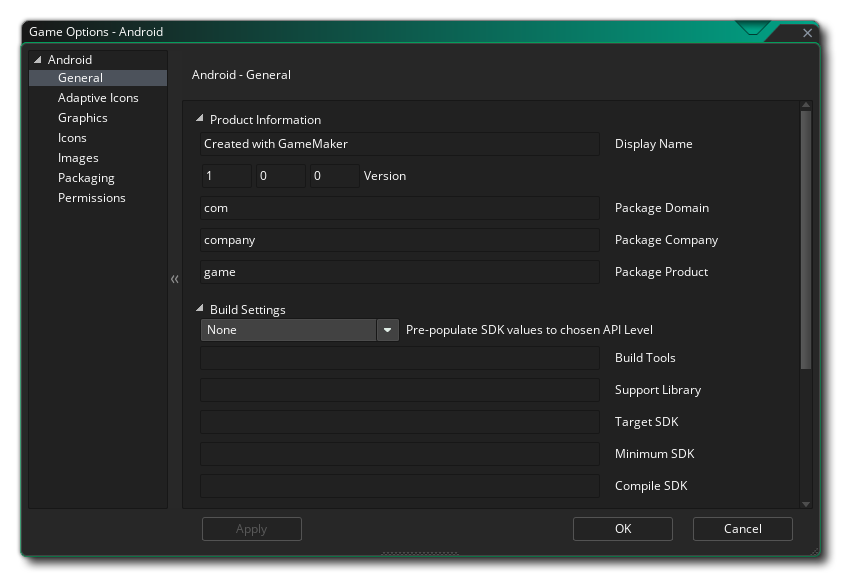
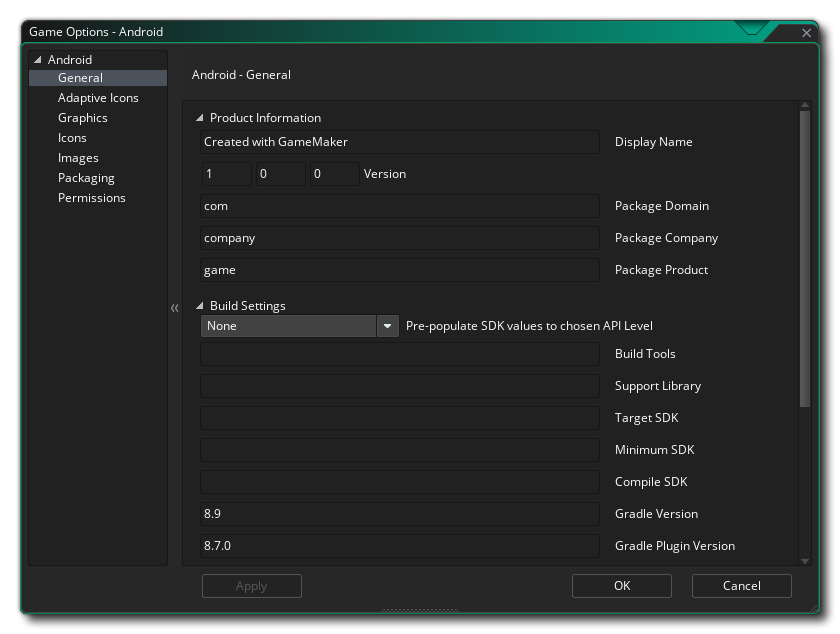
docs(feature): [Android] android:windowLayoutInDisplayCutoutMode does not allow edge to edge display YoYoGames/GameMaker-Bugs#8186
* Updated screenshots on Android Game Options page and added descriptions: Gradle versions, Enable Edge to Edge Display, Display Layout
* Added new display layout event under "Misc. Events"
* Changed minimum Android API level variable to 34
* Removed typo on iOS graphics options screenshot and page

diff --git a/Manual/contents/Settings/Game_Options/Android.htm b/Manual/contents/Settings/Game_Options/Android.htm
@@ -18,13 +18,13 @@
   <p>This section outlines the different options available to you that control how your Android game projects will be compiled. The different sections are:</p>
   <h2 id="general">General</h2>
   <p><img alt="General Android Game Options 1" class="center" src="../../assets/Images/Settings/Android_General1_Options.png" />The first part of the <strong>General </strong>section is dedicated to the <strong>Product Information</strong> and the <strong>Build Settings</strong>. You should fill in the Product information, which includes the projects <strong>Display Name</strong>, its Package information, which consists of a <strong>Domain</strong>, <strong>Company </strong>and <strong>Product</strong>. The package information can only be made up of letters from A-Z and numbers 0-9, with no symbols or other special characters at all, nor should it have uppercase characters. These details will then be used to generate a Package ID with the format &quot;<span class="inline">com.company.myappname</span>&quot;.</p>
-  <p>You then need to set the <strong>Build Tools</strong> as well as the <strong>Target</strong>, <strong>Minimum </strong>and <strong>Compile SDK</strong> versions.</p>
+  <p>You then need to set the <strong>Build Tools</strong> as well as the <strong>Target</strong>, <strong>Minimum </strong>and <strong>Compile SDK</strong> versions. You can also change the <strong>Gradle Version</strong> and <strong>Gradle Plugin Version</strong> here if needed.</p>
   <p class="note"><span data-conref="../../assets/snippets/Tag_note.hts"> </span> There is also an option for the &quot;<strong>Support Library</strong>&quot; version to use. From <span data-keyref="GameMaker Name">GameMaker</span> v2.2.4 and above, this is no longer required and any values used here will be ignored. The setting is maintained for use with legacy projects that require an earlier runtime than 2.2.4.</p>
   <p>The Build Tools (and Support Library if required) are used when <span data-keyref="GameMaker Name">GameMaker</span> builds your game for the Android target and should be set to appropriate values based on the tools you have installed using Android Studio.</p>
-  <p class="note"><span data-conref="../../assets/snippets/Tag_note.hts"> </span> Refer to <a href="https://help.gamemaker.io/hc/en-us/articles/227860547-GameMaker-Required-SDKs#android">Required SDKs</a> for the required SDK levels. <span data-keyref="GameMaker Name">GameMaker</span> does not support SDK versions below <span data-keyref="Minimum_Supported_Android_API_Level">21</span>.</p>
+  <p class="note"><span data-conref="../../assets/snippets/Tag_note.hts"> </span> Refer to <a href="https://help.gamemaker.io/hc/en-us/articles/227860547-GameMaker-Required-SDKs#android">Required SDKs</a> for the required SDK levels. <span data-keyref="GameMaker Name">GameMaker</span> does not support SDK versions below <span data-keyref="Minimum_Supported_Android_API_Level">34</span>.</p>
   <ul class="colour">
     <li>The <strong>Target SDK</strong> indicates that you have tested your app on (up to and including) the version you specify here. This is simply to give the Android OS an idea of how it should handle your app in terms of OS features. For all practical purposes, most apps are going to want to set Target SDK to the latest released version of the API (as used by the Compile SDK setting). This will ensure your app looks as good as possible on the most recent Android devices.</li>
-    <li>The <strong>Minimum SDK</strong> version is the minimum API level that will run your project. Default is <span data-keyref="Minimum_Supported_Android_API_Level">21</span>.</li>
+    <li>The <strong>Minimum SDK</strong> version is the minimum API level that will run your project. Default is <span data-keyref="Minimum_Supported_Android_API_Level">34</span>.</li>
     <li>The <strong>Compile SDK</strong> version is the version of the API that the project is compiled against. This means you can use Android API features included in that version of the API. If you try and use API 24 features - for example - but set Compile SDK 21, then you will get a compilation error. However, if you set the Compile SDK to 28 then you can still run the app on an API 26 device (as well as all other previous versions too).</li>
   </ul>
   <p>You can select from one of the predefined target settings by clicking on the <strong>Pre-populate SDK</strong> values to chosen API level button, which will open a list of different APIs to choose from. Selecting any one of them will populate all the SDK files with appropriate values which you can then use or edit as required.</p>
@@ -63,14 +63,16 @@
   </ul>
   <p>You can supply each forground and background image individually, or you can choose to Generate Icons From File. This means that <span data-keyref="GameMaker Name">GameMaker</span> will generate the required icon images from a base (XXXHDPI) file. You need to supply one image each for the foreground and background and then click the button labeled Generate, and the Icons will be created for you. Images should all be in <span class="inline">*.png</span> format.</p>
   <p>It&#39;s important to understand that your adaptive icons may be masked on any given device and so you also have the option to see how they&#39;ll look along with these masks from the <strong>Preview Adaptive Icons</strong> menu:</p>
-  <p><img alt="Android Adaptive Mask Preview" class="center" src="../../assets/Images/Settings/Android_AdaptiveIcons_Masks.gif" />Note that this is simply a preview of how the icon <em>could </em>look with the selected mask, and the setting will not affect how the icons are exported and displayed, as that is up to the device and OS the game will be run on. Also note that these icons are <strong>not</strong> created for you as part of the image generation done when using the <a href="../../IDE_Tools/Project_Image_Generator.htm">Project Image Generator</a> tool.</p>
+  <p><img alt="Android Adaptive Mask Preview" class="center" src="../../assets/Images/Settings/Android_AdaptiveIcons_Masks.gif" />Note that this is simply a preview of how the icon <em>could </em>look with the selected mask, and the setting will not affect how the icons are exported and displayed, as that is up to the device and OS the game will be run on. Also note that these icons are <strong>not</strong> created for you as part of the image generation done when using the <a data-xref="{title}" href="../../IDE_Tools/Project_Image_Generator.htm">Project Image Generator</a> tool.</p>
   <p> </p>
   <h2 id="graphics">Graphics</h2>
-  <p><img alt="Android Graphics Options" class="center" src="../../assets/Images/Settings/Android_Graphics_Options.png" />Here you can change the following details related to how your game will be displayed, with the following options are available:</p>
+  <p><img alt="Android Graphics Options" class="center" src="../../assets/Images/Settings/Android_Graphics_Options.png" />Here you can change the following details related to how your game will be displayed. The following options are available:</p>
   <ul class="colour">
     <li><strong>Interpolate colours between pixels</strong>: Turns on <a class="glossterm" data-glossterm="linear interpolation">linear interpolation</a>, which basically &quot;smooths&quot; pixels. For crisp pixel graphics, it should be off, but if you have nice alpha blends and smoothed edged graphics it is better left on. This is on by default.</li>
-    <li><strong>Screen Colour Depth</strong>: This can be used to set the colour depth for rendering to either 16bit or 24bit. This will affect the compatibility with some older devices if it is set to 24bit, and will also increase the <em>ashmem </em>that is needed (this is the shared memory on AmazonFire devices).</li>
-    <li><strong>Device Support</strong>: This option will set whether to support only devices that have a dedicated GPU, or all devices. Basically, if your game has any advanced drawing functions like alpha blending, additive blending, surfaces, etc... you should limit it to those devices that have a GPU otherwise you run the risk of getting negative comments and poor rating for your game due to graphical errors or crashes on older devices.</li>
+    <li><strong>Enable Edge to Edge Display</strong>: This option enables edge-to-edge display of content, in which the game <span>window spans the entire width and height of the display by drawing behind the system bars</span>. See the Android developer documentation on <a href="https://developer.android.com/develop/ui/views/layout/edge-to-edge">displaying content edge-to-edge</a>.</li>
+    <li><strong>Display Layout</strong>: This option determines how cutout areas are handled. See the Android developer documentation on <a href="http://developer.android.com/develop/ui/views/layout/display-cutout">display cutouts</a>.</li>
+    <li><strong>Screen Colour Depth</strong>: This can be used to set the colour depth for rendering to either 16bit or 24bit. This will affect the compatibility with some older devices if it is set to 24bit, and will also increase the <em>ashmem </em>that is needed (this is the shared memory on Amazon Fire devices).</li>
+    <li><strong>Device Support</strong>: This option will set whether to support only devices that have a dedicated GPU, or all devices. Basically, if your game has any advanced drawing functions like alpha blending, additive blending, surfaces, etc., you should limit it to those devices that have a GPU otherwise you run the risk of getting negative comments and poor rating for your game due to graphical errors or crashes on older devices.</li>
     <li><strong>Scaling</strong>: Here you can select to scale the draw canvas maintaining the aspect ratio within the device screen - adding &quot;padding&quot; around the edges to fit the screen - or you can select to have the draw canvas stretched to fit the device screen.</li>
   </ul>
   <p>Finally there is the option to set the size of the <a class="glossterm" data-glossterm="texture page" href="macOS.htm#">texture page</a>. The default (and most compatible) size is 2048x2048, but you can choose from anywhere between 256x256 up to 8192x8192. There is also a button marked <strong>Preview </strong>which will generate the texture pages for this platform and then open a window so that you can see how they look. This can be very useful if you wish to see how the texture pages are structured and to prevent having texture pages larger (or smaller) than necessary. For more information on texture pages, please see <a data-xref="{title}" href="../Texture_Information/Texture_Pages.htm">Texture Pages</a>.</p>
@@ -128,7 +130,7 @@
   <div class="footer">
     <div class="buttons">
       <div class="clear">
-        <div style="float:left">Back: <a href="../Game_Options.htm">Game Options</a></div>
+        <div style="float:left">Back: <a data-xref="{title}" href="../Game_Options.htm">Game Options</a></div>
         <div style="float:right">Next: <a href="iOS.htm">iOS</a></div>
       </div>
     </div>

diff --git a/Manual/contents/The_Asset_Editors/Object_Properties/Async_Events/System.htm b/Manual/contents/The_Asset_Editors/Object_Properties/Async_Events/System.htm
@@ -18,60 +18,86 @@
   <p><img alt="System Event" class="center" src="../../../assets/Images/Asset_Editors/Async_System.png" />This event can only be triggered by a <a class="glossterm" data-glossterm="callback" href="#">callback</a> from a system level event (such as the detection of a gamepad or the automatic signing in to Xbox Live) and it will return a <a href="../../../GameMaker_Language/GML_Reference/Data_Structures/DS_Maps/DS_Maps.htm">DS Map</a> stored in the variable <span class="inline2"><a data-xref="{title}" href="../../../GameMaker_Language/GML_Overview/Variables/Builtin_Global_Variables/async_load.htm">async_load</a></span>, containing different key/value pairs depending on the system level event that triggered the callback. These events are:</p>
   <h2>Game Pads</h2>
   <p>When this event is triggered for a gamepad being connected or disconnected it will return one of the following key/value pairs in the <span class="inline">async_load</span> map:</p>
-  <ul class="dropspotlist">
-    <li class="dropspot">&quot;<span class="inline">event_type</span>&quot; - the type of system event received, which will be one of the following strings:<br />
+  <ul class="colour">
+    <li>&quot;<span class="inline">event_type</span>&quot; - the type of system event received, which will be one of the following strings:
       <ul>
         <li><span>&quot;<span class="inline">gamepad discovered</span>&quot; - happens when the system reports a new gamepad has been connected</span></li>
         <li><span>&quot;<span class="inline">gamepad lost</span>&quot; - happens when the system has lost connection to a gamepad</span></li>
       </ul>
     </li>
-    <li class="dropspot">&quot;<span class="inline">pad_index</span>&quot; - the index of the pad that has been added or removed</li>
+    <li>&quot;<span class="inline">pad_index</span>&quot; - the index of the pad that has been added or removed</li>
   </ul>
   <p>This event now permits you to move all your gamepad checking logic from the Step Event or an Alarm event into the System Event and only run it when it&#39;s actually required.</p>
   <p class="note"><b><span data-conref="../../../assets/snippets/Tag_important.hts"> </span> </b>This event will NOT be triggered unless you have at least one <a href="../../../GameMaker_Language/GML_Reference/Game_Input/GamePad_Input/Gamepad_Input.htm"><span class="inline">gamepad_*</span></a> function or <a href="../../../Drag_And_Drop/Drag_And_Drop_Reference/Gamepad/Gamepad_Actions.htm">GML Visual action</a> in your game code. The runner will only initialise the gamepad sub-system when the functions are used in the project, so if they aren&#39;t present, adding/removing gamepads will not trigger the System Event.</p>
   <h2>Virtual Keyboards</h2>
   <p>When this event is triggered for a virtual keyboard being opened or closed it will return the following key/value pairs in the <span class="inline2"><a data-xref="{title}" href="../../../GameMaker_Language/GML_Overview/Variables/Builtin_Global_Variables/async_load.htm">async_load</a></span> map:</p>
-  <ul class="dropspotlist">
-    <li class="dropspot">&quot;<span class="inline">event_type</span>&quot; - the type of system event received, which will be &quot;<span class="inline">virtual keyboard status</span>&quot; for virtual keyboards.</li>
-    <li class="dropspot">&quot;<span class="inline">screen_height</span>&quot; - the height of the virtual keyboard (in pixels). This will be 0 if the keyboard is invisible.</li>
-    <li class="dropspot">&quot;<span class="inline">keyboard_status</span>&quot; - the current status of the keyboard, returned as one of the following strings:
+  <ul class="colour">
+    <li>&quot;<span class="inline">event_type</span>&quot; - the type of system event received, which will be &quot;<span class="inline">virtual keyboard status</span>&quot; for virtual keyboards.</li>
+    <li>&quot;<span class="inline">screen_height</span>&quot; - the height of the virtual keyboard (in pixels). This will be 0 if the keyboard is invisible.</li>
+    <li>&quot;<span class="inline">keyboard_status</span>&quot; - the current status of the keyboard, returned as one of the following strings:
       <ul>
-        <li>&quot;hiding&quot;</li>
-        <li>&quot;hidden&quot;</li>
-        <li>&quot;showing&quot;</li>
-        <li>&quot;visible&quot;</li>
+        <li><span class="inline">&quot;hiding&quot;</span></li>
+        <li><span class="inline">&quot;hidden&quot;</span></li>
+        <li><span class="inline">&quot;showing&quot;</span></li>
+        <li><span class="inline">&quot;visible&quot;</span></li>
       </ul>
     </li>
   </ul>
   <p>See <a data-xref="{title}" href="../../../GameMaker_Language/GML_Reference/Game_Input/Virtual_Keys_And_Keyboards/Virtual_Keys_And_Keyboards.htm">Virtual Keys And Virtual Keyboards</a> for more information on the virtual keyboard.</p>
   <h2>Audio System Status</h2>
   <p>This event type is specifically for use when working with the HTML5 target, as it will be triggered every time the Web Audio context status changes. This means that if you have, for example, a piece of looping background music, then you can pause it or stop and restart it, based on this event triggering. This can be checked by looking for the following key/value pair in the <span class="inline2"><a data-xref="{title}" href="../../../GameMaker_Language/GML_Overview/Variables/Builtin_Global_Variables/async_load.htm">async_load</a></span> map:</p>
-  <ul class="dropspotlist">
-    <li class="dropspot">&quot;<span class="inline">event_type</span>&quot; - the type of system event received, which will be the string &quot;<span class="inline">audio_system_status</span>&quot; if the audio system has initialised or the context has changed.</li>
+  <ul class="colour">
+    <li>&quot;<span class="inline">event_type</span>&quot; - the type of system event received, which will be the string &quot;<span class="inline">audio_system_status</span>&quot; if the audio system has initialised or the context has changed.</li>
   </ul>
   <p>If this event type is triggered, then there will be an additional key in the <span class="inline2"><a data-xref="{title}" href="../../../GameMaker_Language/GML_Overview/Variables/Builtin_Global_Variables/async_load.htm">async_load</a></span> map:</p>
-  <ul class="dropspotlist">
-    <li class="dropspot">&quot;<span class="inline">status</span>&quot; - The status of the audio system, which will be one of the following two strings</li>
-    <li class="dropspot">&quot;<span class="inline">available</span>&quot; - The audio system is initialised and available to play sounds</li>
-    <li class="dropspot">&quot;<span class="inline">unavailable</span>&quot; - The audio system is not initialised, or the context is not currently running, and so can&#39;t play sounds (all sound playing functions will return <span class="inline2">-1</span>)</li>
+  <ul class="colour">
+    <li>&quot;<span class="inline">status</span>&quot; - The status of the audio system, which will be one of the following two strings:
+      <ul>
+        <li>&quot;<span class="inline">available</span>&quot; - The audio system is initialised and available to play sounds</li>
+        <li>&quot;<span class="inline">unavailable</span>&quot; - The audio system is not initialised, or the context is not currently running, and so can&#39;t play sounds (all sound playing functions will return <span class="inline2">-1</span>)</li>
+      </ul>
+    </li>
   </ul>
   <p>For more information on the specific functions available for audio, please see <a data-xref="{title}" href="../../../GameMaker_Language/GML_Reference/Asset_Management/Audio/Audio.htm">Audio</a>.</p>
   <p class="note"><b><span data-conref="../../../assets/snippets/Tag_note.hts"> </span> </b>While this event is designed for use with the HTML5 target, it will also be triggered on all other platforms, but on everything (except HTML5) it will only be triggered once on Game Start when the audio engine is first initialised.</p>
   <h2>Misc. Events</h2>
+  <h3>App Focus</h3>
   <p>On mobile targets (Android, iOS and tvOS), an event is triggered when the app is brought back into focus. Its <span class="inline2"><a data-xref="{title}" href="../../../GameMaker_Language/GML_Overview/Variables/Builtin_Global_Variables/async_load.htm">async_load</a></span> map contains a single key:</p>
   <ul class="colour">
     <li><span class="inline">&quot;event_type&quot;</span> : <span class="inline">&quot;onResume&quot;</span></li>
   </ul>
+  <h3>Display Layout</h3>
+  <p>On Android and iOS, an event is triggered <span>when the display layout changes</span>:</p>
+  <ul class="colour">
+    <li><span class="inline">&quot;event_type&quot;</span> : <span class="inline">&quot;DisplayLayoutInfo&quot;</span></li>
+  </ul>
+  <p>The <span class="inline2"><a data-xref="{title}" href="../../../GameMaker_Language/GML_Overview/Variables/Builtin_Global_Variables/async_load.htm">async_load</a></span> map will hold additional keys if this event type is triggered:</p>
+  <ul class="colour">
+    <li><span class="inline">&quot;safeinsettop&quot;</span></li>
+    <li><span class="inline">&quot;safeinsetleft&quot;</span></li>
+    <li><span class="inline">&quot;safeinsetbottom&quot;</span></li>
+    <li><span class="inline">&quot;safeinsetright&quot;</span></li>
+  </ul>
+  <p><span>These hold the distance from the edge that it is safe to display in (i.e. where no system UI will cover it).</span></p>
+  <p>Additionally, on Android only, the following entries may be returned:</p>
+  <ul class="colour">
+    <li><span class="inline">&quot;boundrects&quot;</span> - A JSON-encoded array, where each object holds left, right, top and bottom coordinates of a bounding rectangle. This array can be empty.</li>
+    <li><span class="inline">&quot;waterfallinsettop&quot;</span></li>
+    <li><span class="inline">&quot;waterfallinsetleft&quot;</span></li>
+    <li><span class="inline">&quot;waterfallinsetbottom&quot;</span></li>
+    <li><span class="inline">&quot;waterfallinsetright&quot;</span></li>
+  </ul>
+  <p>The waterfall inset values are only present on devices that have a waterfall display<span>.</span></p>
   <p> </p>
   <p> </p>
   <div class="footer">
     <div class="buttons">
       <div class="clear">
-        <div style="float:left">Back: <a href="../Async_Events.htm">Async Events</a></div>
-        <div style="float:right">Next: <a href="Audio_Playback.htm">Audio Playback</a></div>
+        <div style="float:left">Back: <a data-xref="{title}" href="../Async_Events.htm">Async Events</a></div>
+        <div style="float:right">Next: <a data-xref="{title}" href="Audio_Playback.htm">Audio Playback</a></div>
       </div>
     </div>
-    <h5><span data-keyref="Copyright Notice">© Copyright YoYo Games Ltd. 2023 All Rights Reserved</span></h5>
+    <h5><span data-keyref="Copyright Notice">© Copyright YoYo Games Ltd. 2024 All Rights Reserved</span></h5>
   </div>
   <!-- KEYWORDS
 Asynchronous System

diff --git a/Manual/contents/GameMaker_Language/GML_Overview/Variables/Builtin_Global_Variables/async_load.htm b/Manual/contents/GameMaker_Language/GML_Overview/Variables/Builtin_Global_Variables/async_load.htm
@@ -4,7 +4,7 @@
 <head>
   <meta http-equiv="Content-Type" content="text/html; charset=utf-8" />
   <title>async_load</title>
-  <meta name="generator" content="Adobe RoboHelp 2020" />
+  <meta name="generator" content="Adobe RoboHelp 2022" />
   <link rel="stylesheet" href="../../../../assets/css/default.css" type="text/css" />
   <script src="../../../../assets/scripts/main_script.js" type="module"></script>
   <meta name="rh-authors" content="Mark Alexander" />
@@ -14,37 +14,37 @@
 </head>
 <body>
   <!--<div class="body-scroll" style="top: 150px;">-->
-  <h1>async_load</h1>
-  <p>This variable is <b>global</b> in scope and is used to hold a <a href="../../../GML_Reference/Data_Structures/DS_Maps/DS_Maps.htm">DS map</a> when used in the <a href="../../../../The_Asset_Editors/Object_Properties/Async_Events.htm">Asynchronous Events</a>, and -1 at all other times. The actual contents of the DS map will depend on the type of asynchronous event <a class="glossterm" data-glossterm="callback" href="#">callback</a>, as well as the function that was used to trigger the event, so refer to the individual pages for those events for full details of all the possible DS map contents.</p>
+  <h1><span data-field="title" data-format="default">async_load</span></h1>
+  <p>This variable is <b>global</b> in scope and is used to hold a <span data-keyref="Type_ID_DS_Map"><a href="../../../GML_Reference/Data_Structures/DS_Maps/ds_map_create.htm" target="_blank">DS Map</a></span> when used in the <a href="../../../../The_Asset_Editors/Object_Properties/Async_Events.htm">Asynchronous Events</a>, and -1 at all other times. The actual contents of the DS map will depend on the type of asynchronous event <a class="glossterm" data-glossterm="callback" href="#">callback</a>, as well as the function that was used to trigger the event, so refer to the individual pages for those events for full details of all the possible DS map contents.</p>
   <p> </p>
   <h4>Syntax:</h4>
-  <p class="code">async_load;</p>
+  <p class="code"><span data-field="title" data-format="default">async_load</span></p>
   <p> </p>
   <h4>Returns:</h4>
-  <p class="code"><span data-keyref="Type_ID_DS_Map">DS Map ID</span></p>
+  <p class="code"><span data-keyref="Type_ID_DS_Map"><a href="../../../GML_Reference/Data_Structures/DS_Maps/ds_map_create.htm" target="_blank">DS Map</a></span></p>
   <p> </p>
   <h4>Extended Example:</h4>
   <p class="code">sprite =  sprite_add(&quot;site.com/path/image.png&quot;, 16, true, true, 0, 0);</p>
-  <p>The above code would be called in an event to load a sprite from an external URL. This would then trigger the <strong>Image Loaded</strong> Asynchronous Event, where you would parse the <span class="inline">async_load</span> map:</p>
-  <p class="code">if (ds_map_find_value(async_load, &quot;id&quot;) == sprite) <br />
+  <p>The above code would be called in an event to load a sprite from an external URL. This would then trigger the <strong>Image Loaded</strong> Asynchronous Event, where you would parse the <span class="inline2"><span data-field="title" data-format="default">async_load</span></span> map:</p>
+  <p class="code">if (ds_map_find_value(async_load, &quot;id&quot;) == sprite)<br />
     {<br />
         if (ds_map_find_value(async_load, &quot;status&quot;) &gt;= 0)<br />
         {<br />
             sprite_index = sprite;<br />
         }<br />
     }</p>
-  <p>The above code will first check the ID of the <span class="inline">async_load</span> map, then check the status of the callback. If the value is greater than or equal to 0 (signalling success) the result from the callback will then be used to set the sprite index of the instance to the newly loaded image.</p>
+  <p>The above code will first check the ID of the <span class="inline2"><span data-field="title" data-format="default">async_load</span></span> map, then check the status of the callback. If the value is greater than or equal to 0 (signalling success) the result from the callback will then be used to set the sprite index of the instance to the newly loaded image.</p>
   <p> </p>
   <p> </p>
   <p> </p>
   <div class="footer">
     <div class="buttons">
       <div class="clear">
-        <div style="float:left">Back: <a href="../Global_Variables.htm">Global Variables</a></div>
+        <div style="float:left">Back: <a data-xref="{title}" href="../Global_Variables.htm">Global Variables</a></div>
         <div style="float:right">Next: <a data-xref="{title}" href="../../../GML_Reference/Game_Input/Gesture_Input/event_data.htm">event_data</a></div>
       </div>
     </div>
-    <h5><span data-keyref="Copyright Notice">© Copyright YoYo Games Ltd. 2022 All Rights Reserved</span></h5>
+    <h5><span data-keyref="Copyright Notice">© Copyright YoYo Games Ltd. 2024 All Rights Reserved</span></h5>
   </div>
   <!-- KEYWORDS
 async_load

diff --git a/Manual/contents/Settings/Game_Options/iOS.htm b/Manual/contents/Settings/Game_Options/iOS.htm
@@ -38,10 +38,10 @@
   <p><img alt="iOS Graphics Options" class="center" src="../../assets/Images/Settings/iOS_Graphics_Options.png" />Here you can change the following details related to how your game will be displayed, with the following options available:</p>
   <ul class="colour">
     <li><strong>Interpolate colours between pixels</strong>: Turns on <a class="glossterm" data-glossterm="linear interpolation">linear interpolation</a>, which basically &quot;smooths&quot; pixels. For crisp pixel graphics, it should be off, but if you have nice alpha blends and smoothed edged graphics it is better left on. This is off by default.<strong></strong></li>
-    <li><strong>Half iPad 1 Textures:</strong> The iPad 1 has much less texture memory than more recent devices so you can enable this option to reduce the size of textures by half if you want to target this device or get maximum compatibility.</li>
+    <li><strong>Halve iPad 1 texture sizes:</strong> The iPad 1 has much less texture memory than more recent devices so you can enable this option to reduce the size of textures by half if you want to target this device or get maximum compatibility.</li>
     <li><strong>Scaling</strong>: Here you can select to scale the draw canvas maintaining the aspect ratio within the device screen - adding &quot;padding&quot; around the edges to fit the screen - or you can select to have the draw canvas stretched to fit the device screen.</li>
   </ul>
-  <p>Finally there is the option to set the size of the <a class="glossterm" data-glossterm="texture page" href="macOS.htm#">texture page</a>. The default (and most compatible) size is 2048x2048, but you can choose from anywhere between 256x256 up to 8192x8192. There is also a button marked <strong>Preview </strong>which will generate the texture pages for this platform and then open a window so that you can see how they look. This can be very useful if you wish to see how the texture pages are structured and to prevent having texture pages larger (or smaller) than necessary. For more information on texture pages, please see <a href="../Texture_Information/Texture_Pages.htm">here</a>.</p>
+  <p>Finally there is the option to set the size of the <a class="glossterm" data-glossterm="texture page" href="macOS.htm#">texture page</a>. The default (and most compatible) size is 2048x2048, but you can choose from anywhere between 256x256 up to 8192x8192. There is also a button marked <strong>Preview </strong>which will generate the texture pages for this platform and then open a window so that you can see how they look. This can be very useful if you wish to see how the texture pages are structured and to prevent having texture pages larger (or smaller) than necessary. See <a data-xref="{title}" href="../Texture_Information/Texture_Pages.htm">Texture Pages</a> for more information.</p>
   <p class="note"><span data-conref="../../assets/snippets/Tag_note.hts"> </span> Be aware that the larger the size of the texture page, the less compatible your game will be with different browsers and devices.</p>
   <p> </p>
   <h2>Icons</h2>
